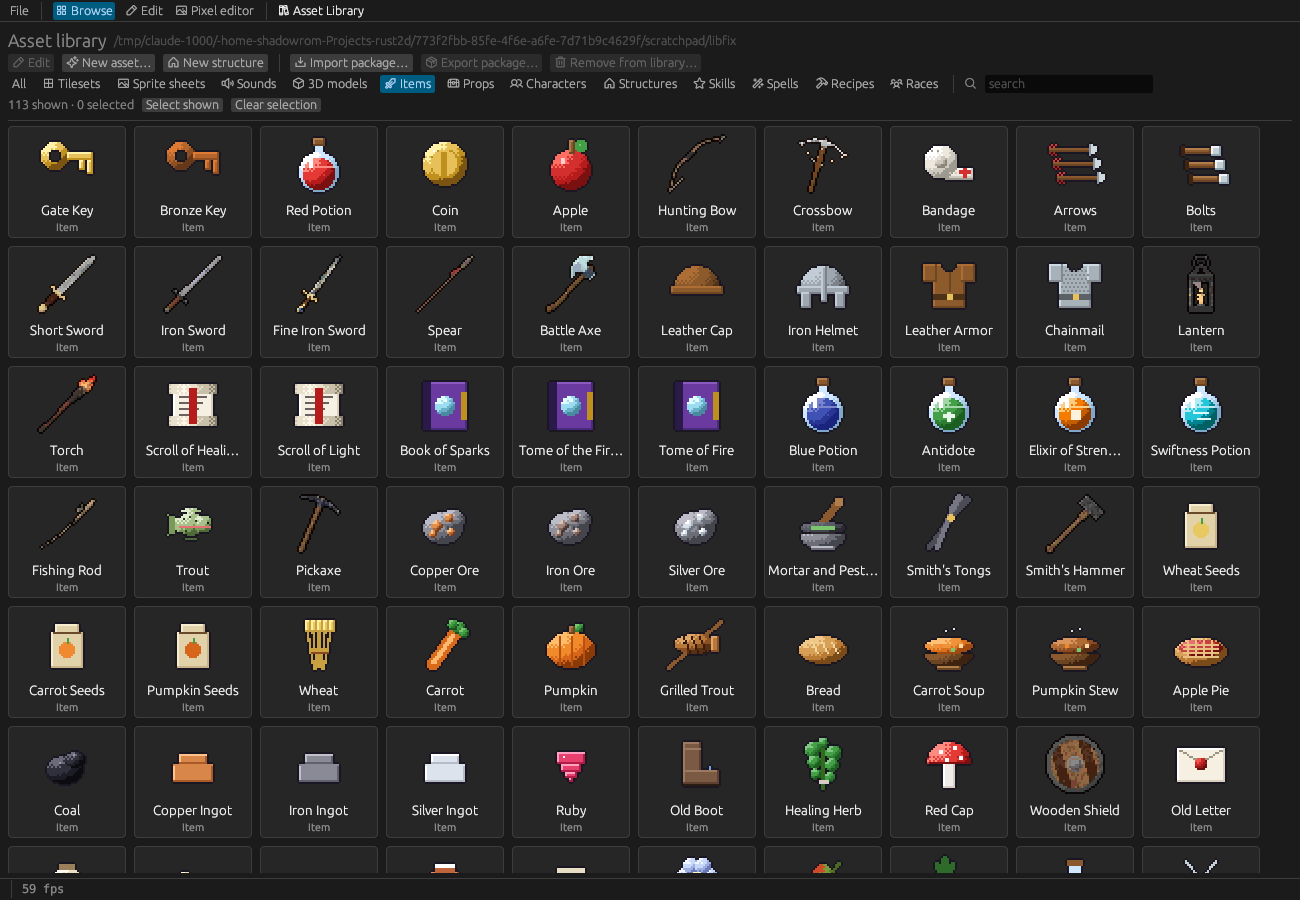
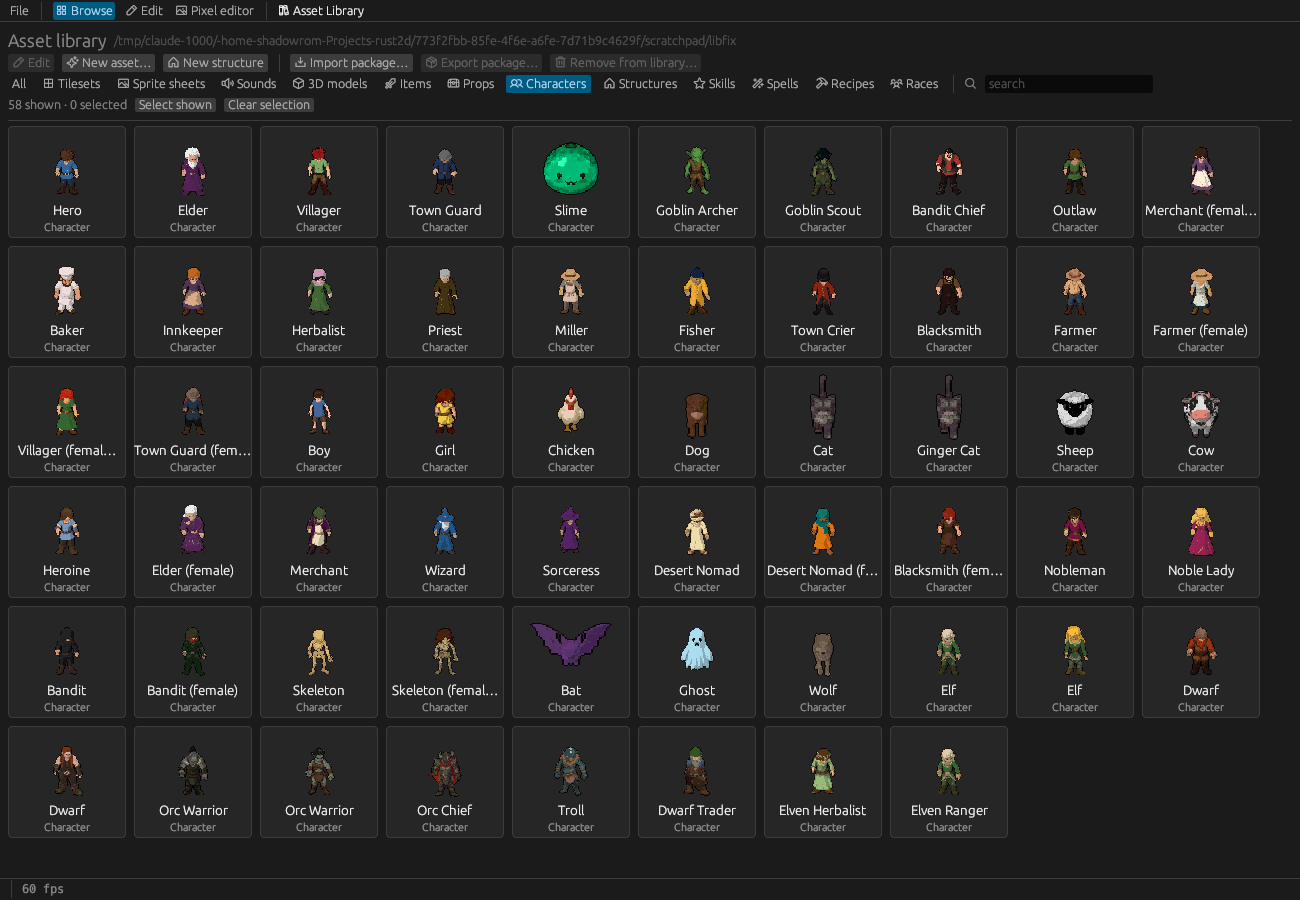
Character thumbnails in the Asset Library window
- The library's 3D models are read from the store on show (the Asset Library window edits its
  own project, so LibState.lib is empty there: every character card showed "?")
- Their renderer's frame starts every frame, so thumbnails keep rendering past the first two
  dozen (the Add from library dialog stopped at the chicken)
- The manual's library picture shows the characters

diff --git a/crates/editor/src/library_ui.rs b/crates/editor/src/library_ui.rs
@@ -74,6 +74,9 @@ pub struct LibState {
     tex: HashMap<String, Tex>,
     /// The library's 3D models (loaded on first use: character thumbnails).
     models: std::cell::RefCell<Option<rustpg2d_engine::render::model::Models>>,
+    /// The folder they are read from: the shown store's (the library, or in the Asset Library
+    /// window the project it edits).
+    models_root: Option<std::path::PathBuf>,
     pub tex_dirty: bool,
     pub filter: Option<RefKind>,
     pub search: String,
@@ -117,7 +120,16 @@ impl LibState {
     }
 
     /// Thumbnail textures of a store's tilesets and sprite sheets (rebuilt when `tex_dirty`).
+    /// Called every frame with the store on show: loads its pictures when they changed, and starts
+    /// the frame of its models (they render a few thumbnails a frame, more in the next ones).
     pub(crate) fn textures_of(&mut self, ctx: &egui::Context, store: &Project) {
+        if self.models_root.as_deref() != Some(store.root.as_path()) {
+            self.models_root = Some(store.root.clone());
+            *self.models.borrow_mut() = None;
+        }
+        if let Some(m) = self.models.borrow().as_ref() {
+            m.begin_frame();
+        }
         if !self.tex_dirty {
             return;
         }
@@ -138,15 +150,15 @@ impl LibState {
         self.lib.as_ref().is_some_and(|lib| self.paint_character_in(ui, &lib.db, id, facing, rect))
     }
 
-    /// Paints a character of `db` (its model, rendered from the library's files) into `rect`,
+    /// Paints a character of `db` (its model, rendered from the shown store's files) into `rect`,
     /// standing facing `facing`.
     fn paint_character_in(&self, ui: &egui::Ui, db: &Database, id: &str, facing: rustpg2d_engine::entity::Facing, rect: Rect) -> bool {
         use rustpg2d_engine::render::model::{Gear, Models, PoseReq};
         let Some(d) = db.character(id) else { return false };
         let mut m = self.models.borrow_mut();
         if m.is_none() {
-            let Some(lib) = self.lib.as_ref() else { return false };
-            *m = Some(Models::load(&lib.db, &|rel| std::fs::read(lib.path(rel))));
+            let Some(root) = self.models_root.as_ref() else { return false };
+            *m = Some(Models::load(db, &|rel| std::fs::read(root.join(rel))));
         }
         let Some(models) = m.as_ref() else { return false };
         let a = models.look_of(&d.appearance);

diff --git a/CHANGELOG.md b/CHANGELOG.md
@@ -5,11 +5,17 @@ All notable changes to R(ust)PG2D (formerly rust2d) (engine, game runner and edi
 
 ## Unreleased
 
+### Fixes
+- **Characters in the Asset Library window**: its character cards showed "?" instead of the
+  characters (the window read 3D models only from a library the main editor had loaded), and the
+  *Add from library* dialog stopped drawing them after the first two dozen (its renderer's
+  per-frame budget was never renewed). Both draw every character now.
+
 ### Documentation
 - **Screenshots of the 3D cast**: the README banner and table and 16 pictures of the Creator's
   Manual (dialog, market by day and night, combat with the bandit chief, character window, shop,
   crafting, skills, spells, the map editor, lighting preview, daily schedule, character form, item
-  form with its hold preview, pixel editor, Asset Library window) show the 3D characters and the
+  form with its hold preview, pixel editor, the Asset Library window with its characters) show the 3D characters and the
   new item models; a new one shows the fisher at work.
 
 ## 0.18.1 — 2026-11-12

diff --git a/Documentation/manual/11-asset-library.md b/Documentation/manual/11-asset-library.md
@@ -67,7 +67,7 @@ used as last saved.
 
 ## The Asset Library window
 
-![The Asset Library window with its items](../images/editor-library.webp)
+![The Asset Library window with its characters](../images/editor-library.webp)
 
 The **Asset Library** tab (or *Assets › Asset Library window…*) opens the library in **its own
 window**, a second editor working on the library. It has three views:
